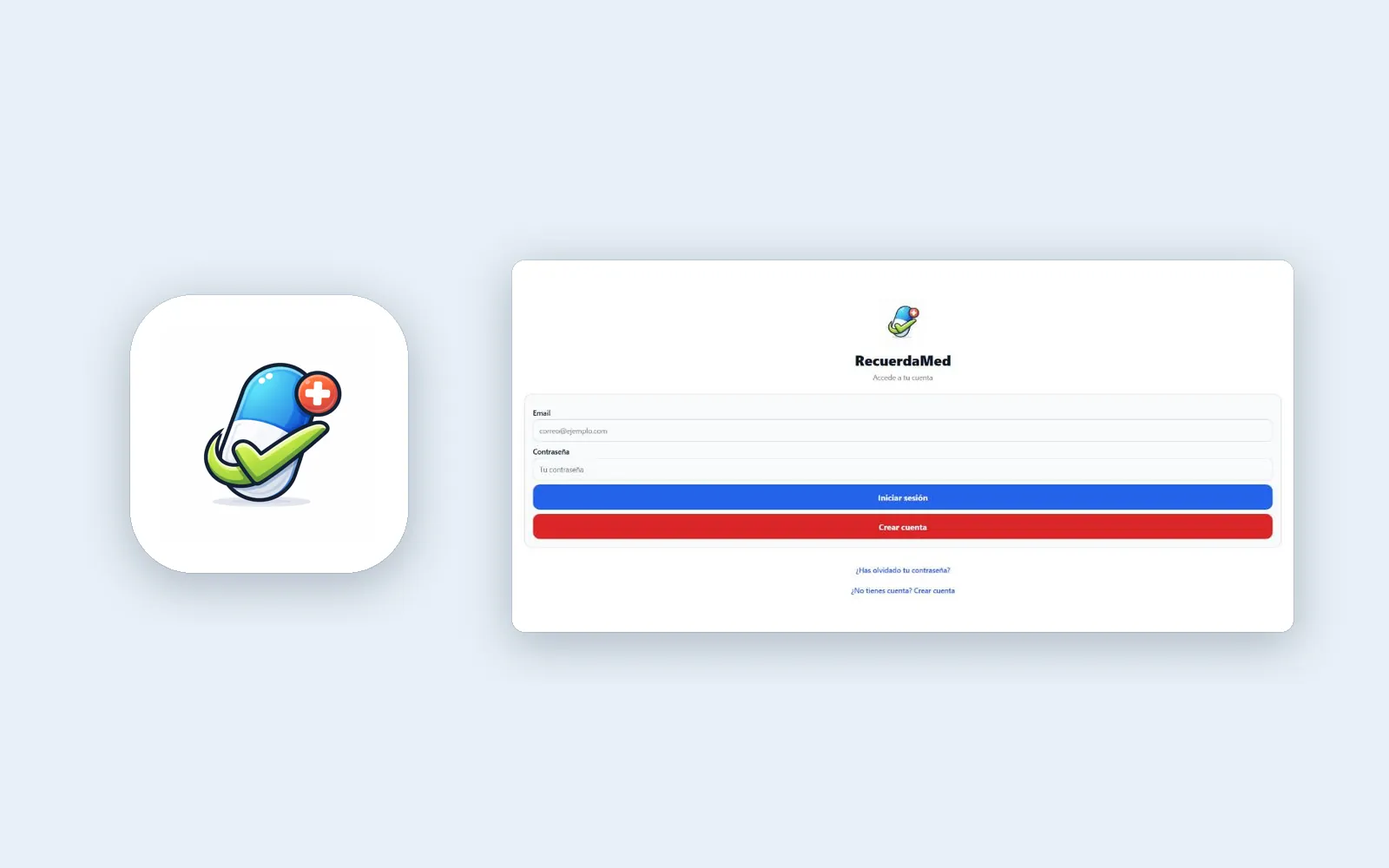
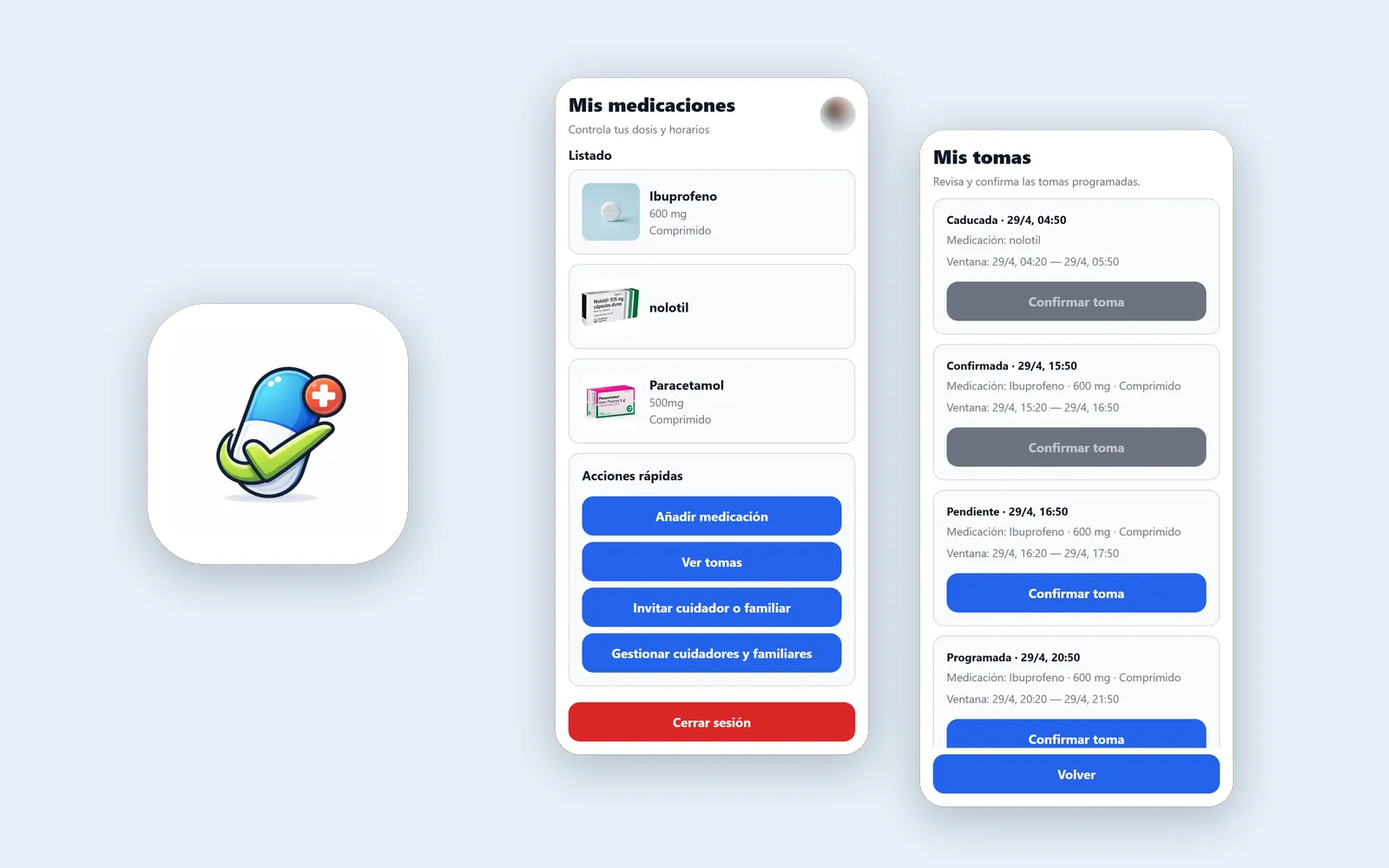
RecuerdaMed con capturas reales y tecnologías en la cabecera
- RecuerdaMed: pantallas reales de la app (medicaciones, tomas, nueva
  medicación, accesos, paneles de cuidador y familiar, acceso) y portada
  nueva. Correos de prueba y foto de perfil difuminados.
- Las tecnologías pasan a la ficha de cada proyecto, arriba, en lugar de
  una sección suelta al final.
- DocuChat: se quita la cita suelta y los resultados explican la
  corrección de la evaluación (93 % inflado frente a 60 % real).

Claude-Session: https://claude.ai/code/session_01PYV6iKrbiz8JJx8i2wWxxc

Changed region(s): [[0.3438, 0.093, 0.9375, 0.961], [0.0938, 0.341, 0.2812, 0.682], [0.5938, 0.093, 0.625, 0.155]]

diff --git a/proyectos/recuerdamed/index.html b/proyectos/recuerdamed/index.html
@@ -41,17 +41,17 @@
       <p class="p-lead"><span lang="es">Una app multiplataforma que ayuda a personas mayores y polimedicadas a no saltarse ninguna toma, y que avisa a cuidadores y familiares cuando una se pasa.</span><span lang="en">A cross-platform app that helps older people on several medications not to miss a dose, and alerts caregivers and family when one is missed.</span></p>
       <p class="p-meta"><span class="i"><span lang="es">Trabajo de fin de grado</span><span lang="en">Bachelor’s thesis</span></span><span class="i">2026</span></p>
       <div class="p-links"><a class="btn primary" href="https://recuerda-med.vercel.app" target="_blank" rel="noopener"><span lang="es">Probar la demo</span><span lang="en">Try the demo</span> <span class="arr" aria-hidden="true">↗</span></a><a class="btn" href="https://github.com/JoaquinBorjaLeon/RecuerdaMed" target="_blank" rel="noopener"><span lang="es">Código en GitHub</span><span lang="en">Code on GitHub</span> <span class="arr" aria-hidden="true">↗</span></a></div>
-      <dl class="p-facts"><div><dt><span lang="es">Periodo</span><span lang="en">Period</span></dt><dd><span lang="es">Sept. 2025 a may. 2026</span><span lang="en">Sep 2025 to May 2026</span></dd></div><div><dt><span lang="es">Equipo</span><span lang="en">Team</span></dt><dd><span lang="es">Proyecto individual</span><span lang="en">Individual project</span></dd></div><div><dt><span lang="es">Contexto</span><span lang="en">Context</span></dt><dd><span lang="es">Trabajo de fin de grado, Universidad de Sevilla</span><span lang="en">Bachelor’s thesis, University of Seville</span></dd></div><div><dt><span lang="es">Mi papel</span><span lang="en">My role</span></dt><dd><span lang="es">Todo, de las entrevistas con usuarios al despliegue</span><span lang="en">Everything, from user interviews to deployment</span></dd></div></dl>
+      <dl class="p-facts"><div><dt><span lang="es">Periodo</span><span lang="en">Period</span></dt><dd><span lang="es">Sept. 2025 a may. 2026</span><span lang="en">Sep 2025 to May 2026</span></dd></div><div><dt><span lang="es">Equipo</span><span lang="en">Team</span></dt><dd><span lang="es">Proyecto individual</span><span lang="en">Individual project</span></dd></div><div><dt><span lang="es">Contexto</span><span lang="en">Context</span></dt><dd><span lang="es">Trabajo de fin de grado, Universidad de Sevilla</span><span lang="en">Bachelor’s thesis, University of Seville</span></dd></div><div><dt><span lang="es">Mi papel</span><span lang="en">My role</span></dt><dd><span lang="es">Todo, de las entrevistas con usuarios al despliegue</span><span lang="en">Everything, from user interviews to deployment</span></dd></div><div class="p-tech"><dt><span lang="es">Tecnologías</span><span lang="en">Tech stack</span></dt><dd><ul class="stack" aria-label="Stack"><li>React Native</li><li>Expo</li><li>TypeScript</li><li>Firebase</li><li>Jest</li><li>GitHub Actions</li><li>Vercel</li></ul></dd></div></dl>
     </div>
   </section>
   <div class="wrap">
       <figure class="stage reveal">
-        <div data-ui class="shot solo"><img src="/img/covers/recuerdamed.webp" width="1600" height="1000" fetchpriority="high" decoding="async" alt="Icono de RecuerdaMed junto a la pantalla de acceso de la demo" data-en="RecuerdaMed icon next to the demo sign-in screen"></div>
-        <figcaption><span lang="es">Pantalla de acceso de la demo pública, desplegada en Vercel.</span><span lang="en">Sign-in screen of the public demo, deployed on Vercel.</span></figcaption>
+        <div class="phones n3"><div data-ui class="phone"><img src="/img/recuerdamed/medicaciones.webp" width="780" height="1688" fetchpriority="high" decoding="async" alt="Pantalla Mis medicaciones con tres medicamentos, sus fotos y las acciones rápidas" data-en="My medications screen with three medicines, their photos and quick actions"></div><div data-ui class="phone"><img src="/img/recuerdamed/tomas.webp" width="780" height="1688" fetchpriority="high" decoding="async" alt="Pantalla Mis tomas con tomas caducadas, confirmadas, pendientes y programadas" data-en="My doses screen with expired, confirmed, pending and scheduled doses"></div><div data-ui class="phone"><img src="/img/recuerdamed/nueva-medicacion.webp" width="780" height="1688" fetchpriority="high" decoding="async" alt="Formulario de nueva medicación con foto de referencia" data-en="New medication form with a reference photo"></div></div>
+        <figcaption><span lang="es">La app del paciente: medicaciones, tomas del día y alta de una medicación con foto. Datos de prueba.</span><span lang="en">The patient app: medications, today’s doses and adding a medication with a photo. Test data.</span></figcaption>
       </figure>
       <section class="p-sec reveal">
         <h2><span lang="es">Qué hace</span><span lang="en">What it does</span></h2>
-        <div><ul class="points single"><li><span lang="es">Tres roles con permisos distintos: paciente, cuidador y familiar.</span><span lang="en">Three roles with different permissions: patient, caregiver and family.</span></li><li><span lang="es">Pautas diarias, por días de la semana o cada X horas, con un margen para confirmar cada toma.</span><span lang="en">Daily, weekday or every-X-hours schedules, with a time window to confirm each dose.</span></li><li><span lang="es">Notificaciones locales de recordatorio, aviso y caducidad, y push a los vinculados.</span><span lang="en">Local reminder, warning and expiry notifications, plus push alerts to linked users.</span></li><li><span lang="es">Vinculación con consentimiento mediante invitaciones revocables.</span><span lang="en">Consent-based linking through revocable invitations.</span></li><li><span lang="es">Historial de adherencia con tomas confirmadas y caducadas.</span><span lang="en">An adherence history of confirmed and expired doses.</span></li></ul></div>
+        <div><ul class="points single"><li><span lang="es">Cada medicación guarda dosis, forma, notas y una foto de referencia opcional, tomada con la cámara o desde la galería.</span><span lang="en">Each medication stores dose, form, notes and an optional reference photo, taken with the camera or from the gallery.</span></li><li><span lang="es">Pautas diarias, por días de la semana o cada X horas. Cada toma pasa por programada, pendiente, confirmada o caducada según su ventana de tiempo.</span><span lang="en">Daily, weekday or every-X-hours schedules. Each dose moves through scheduled, pending, confirmed or expired according to its time window.</span></li><li><span lang="es">Notificaciones locales de recordatorio, aviso y caducidad, y avisos push a los vinculados.</span><span lang="en">Local reminder, warning and expiry notifications, plus push alerts to linked users.</span></li><li><span lang="es">Tres roles: el paciente invita a cuidadores y familiares, decide quién ve sus tomas y puede retirar el acceso cuando quiera.</span><span lang="en">Three roles: patients invite caregivers and family, decide who sees their doses and can revoke access at any time.</span></li><li><span lang="es">Historial de adherencia con las tomas confirmadas y caducadas.</span><span lang="en">An adherence history of confirmed and expired doses.</span></li></ul></div>
       </section>
       <section class="p-sec reveal">
         <h2><span lang="es">Cómo está hecho</span><span lang="en">How it is built</span></h2>
@@ -61,9 +61,21 @@
         <h2><span lang="es">En cifras</span><span lang="en">In numbers</span></h2>
         <div><dl class="stats"><div><dt><span lang="es">roles con permisos propios</span><span lang="en">roles with their own permissions</span></dt><dd>3</dd></div><div><dt><span lang="es">tests unitarios</span><span lang="en">unit tests</span></dt><dd>18</dd></div><div><dt><span lang="es">base de código para móvil y web</span><span lang="en">codebase for mobile and web</span></dt><dd>1</dd></div></dl></div>
       </section>
-      <section class="p-sec reveal">
-        <h2>Stack</h2>
-        <div><ul class="stack" aria-label="Stack"><li>React Native</li><li>Expo</li><li>TypeScript</li><li>Firebase</li><li>Jest</li><li>GitHub Actions</li><li>Vercel</li></ul></div>
+      <section class="p-gallery" aria-label="Galería">
+        <h2><span lang="es">Galería</span><span lang="en">Gallery</span></h2>
+        <div class="phone-gallery"><figure class="reveal">
+            <div data-ui class="phone"><img src="/img/recuerdamed/accesos.webp" width="780" height="1688" decoding="async" alt="Pantalla para gestionar los accesos de cuidadores y familiares" data-en="Screen to manage caregiver and family access"></div>
+            <figcaption><span lang="es">El paciente controla quién ve sus tomas.</span><span lang="en">Patients control who sees their doses.</span></figcaption>
+          </figure><figure class="reveal">
+            <div data-ui class="phone"><img src="/img/recuerdamed/cuidador.webp" width="780" height="1688" decoding="async" alt="Panel del cuidador con sus pacientes e invitaciones" data-en="Caregiver panel with patients and invitations"></div>
+            <figcaption><span lang="es">Panel del cuidador.</span><span lang="en">Caregiver panel.</span></figcaption>
+          </figure><figure class="reveal">
+            <div data-ui class="phone"><img src="/img/recuerdamed/familiar.webp" width="780" height="1688" decoding="async" alt="Panel familiar de consulta y seguimiento" data-en="Family panel for follow-up"></div>
+            <figcaption><span lang="es">Panel familiar.</span><span lang="en">Family panel.</span></figcaption>
+          </figure><figure class="reveal">
+            <div data-ui class="phone"><img src="/img/recuerdamed/login.webp" width="780" height="1688" decoding="async" alt="Pantalla de acceso de RecuerdaMed" data-en="RecuerdaMed sign-in screen"></div>
+            <figcaption><span lang="es">Acceso a la app.</span><span lang="en">Signing in.</span></figcaption>
+          </figure></div>
       </section>
       <nav class="pager reveal" aria-label="Más proyectos">
         <a class="prev" href="/proyectos/sports-value-detector/"><small><span lang="es">Anterior</span><span lang="en">Previous</span></small><strong>Sports Value Detector</strong></a>

diff --git a/proyectos/docuchat/index.html b/proyectos/docuchat/index.html
@@ -41,7 +41,7 @@
       <p class="p-lead"><span lang="es">Un asistente que responde preguntas sobre tus PDF con generación aumentada por recuperación (RAG) y te enseña de qué documento sale cada respuesta. Si algo no está en tus documentos, lo dice.</span><span lang="en">An assistant that answers questions about your PDFs with retrieval-augmented generation (RAG) and shows which document each answer comes from. If something is not in your documents, it says so.</span></p>
       <p class="p-meta"><span class="i"><span lang="es">Proyecto personal</span><span lang="en">Personal project</span></span><span class="i">2026</span></p>
       <div class="p-links"><a class="btn primary" href="https://github.com/JoaquinBorjaLeon/docuchat" target="_blank" rel="noopener"><span lang="es">Código en GitHub</span><span lang="en">Code on GitHub</span> <span class="arr" aria-hidden="true">↗</span></a></div>
-      <dl class="p-facts"><div><dt><span lang="es">Periodo</span><span lang="en">Period</span></dt><dd>2026</dd></div><div><dt><span lang="es">Equipo</span><span lang="en">Team</span></dt><dd><span lang="es">Proyecto personal</span><span lang="en">Personal project</span></dd></div><div><dt><span lang="es">Contexto</span><span lang="en">Context</span></dt><dd><span lang="es">Proyecto propio, desplegado con Docker Compose</span><span lang="en">Own project, deployed with Docker Compose</span></dd></div><div><dt><span lang="es">Mi papel</span><span lang="en">My role</span></dt><dd><span lang="es">Todo: backend, búsqueda, agente, evaluación e interfaz</span><span lang="en">Everything: backend, search, agent, evaluation and interface</span></dd></div></dl>
+      <dl class="p-facts"><div><dt><span lang="es">Periodo</span><span lang="en">Period</span></dt><dd>2026</dd></div><div><dt><span lang="es">Equipo</span><span lang="en">Team</span></dt><dd><span lang="es">Proyecto personal</span><span lang="en">Personal project</span></dd></div><div><dt><span lang="es">Contexto</span><span lang="en">Context</span></dt><dd><span lang="es">Proyecto propio, desplegado con Docker Compose</span><span lang="en">Own project, deployed with Docker Compose</span></dd></div><div><dt><span lang="es">Mi papel</span><span lang="en">My role</span></dt><dd><span lang="es">Todo: backend, búsqueda, agente, evaluación e interfaz</span><span lang="en">Everything: backend, search, agent, evaluation and interface</span></dd></div><div class="p-tech"><dt><span lang="es">Tecnologías</span><span lang="en">Tech stack</span></dt><dd><ul class="stack" aria-label="Stack"><li>Python</li><li>FastAPI</li><li>PostgreSQL</li><li>pgvector</li><li>Ollama</li><li>Gemini</li><li>React</li><li>Docker Compose</li></ul></dd></div></dl>
     </div>
   </section>
   <div class="wrap">
@@ -59,13 +59,8 @@
       </section>
       <section class="p-sec reveal">
         <h2><span lang="es">Resultados</span><span lang="en">Results</span></h2>
-        <div><dl class="stats"><div><dt><span lang="es">recall@8 honesto</span><span lang="en">honest recall@8</span></dt><dd>60 %</dd></div><div><dt><span lang="es">preguntas de evaluación</span><span lang="en">evaluation questions</span></dt><dd>15</dd></div><div><dt><span lang="es">la cifra inflada que corregí</span><span lang="en">the inflated figure I corrected</span></dt><dd>93 %</dd></div></dl></div>
+        <div><dl class="stats"><div><dt><span lang="es">de recall@8: la fuente correcta aparece entre los 8 primeros fragmentos</span><span lang="en">recall@8: the right source shows up in the top 8 passages</span></dt><dd>60 %</dd></div><div><dt><span lang="es">preguntas en el conjunto de evaluación</span><span lang="en">questions in the evaluation set</span></dt><dd>15</dd></div><div><dt><span lang="es">proveedores de modelos: Ollama en local y Gemini</span><span lang="en">model providers: local Ollama and Gemini</span></dt><dd>2</dd></div></dl><p class="stats-note"><span lang="es">Una primera versión de la evaluación daba un 93 %, pero contaba como acierto fragmentos genéricos que no respondían a la pregunta. Al corregirla, la cifra real es un 60 %, y los fallos se concentran en preguntas conceptuales amplias.</span><span lang="en">A first version of the evaluation gave 93%, but it counted generic passages that did not answer the question as hits. Once corrected, the real figure is 60%, with failures concentrated in broad conceptual questions.</span></p></div>
       </section>
-      <section class="p-sec reveal">
-        <h2>Stack</h2>
-        <div><ul class="stack" aria-label="Stack"><li>Python</li><li>FastAPI</li><li>PostgreSQL</li><li>pgvector</li><li>Ollama</li><li>Gemini</li><li>React</li><li>Docker Compose</li></ul></div>
-      </section>
-      <blockquote class="pull reveal"><p><span lang="es">Una métrica mal diseñada es peor que no tener ninguna: da una confianza falsa.</span><span lang="en">A badly designed metric is worse than none: it gives false confidence.</span></p></blockquote>
       <section class="p-gallery" aria-label="Galería">
         <h2><span lang="es">Galería</span><span lang="en">Gallery</span></h2>
         <div class="gallery"><figure class="reveal wide">

diff --git a/proyectos/analista-incansable/index.html b/proyectos/analista-incansable/index.html
@@ -41,12 +41,12 @@
       <p class="p-lead"><span lang="es">Vigila cada día una lista de acciones, puntúa cada empresa por sus fundamentales y avisa cuando algo merece una segunda mirada. Analiza y vigila; nunca predice ni opera.</span><span lang="en">Every day it watches a list of stocks, scores each company on its fundamentals and flags anything worth a second look. It analyses and watches; it never predicts or trades.</span></p>
       <p class="p-meta"><span class="i"><span lang="es">Proyecto personal</span><span lang="en">Personal project</span></span><span class="i">2026</span></p>
       <div class="p-links"><a class="btn primary" href="https://github.com/JoaquinBorjaLeon/analista-incansable" target="_blank" rel="noopener"><span lang="es">Código en GitHub</span><span lang="en">Code on GitHub</span> <span class="arr" aria-hidden="true">↗</span></a></div>
-      <dl class="p-facts"><div><dt><span lang="es">Periodo</span><span lang="en">Period</span></dt><dd>2026</dd></div><div><dt><span lang="es">Equipo</span><span lang="en">Team</span></dt><dd><span lang="es">Proyecto personal</span><span lang="en">Personal project</span></dd></div><div><dt><span lang="es">Contexto</span><span lang="en">Context</span></dt><dd><span lang="es">Corre en mi servidor Ubuntu, en una red privada</span><span lang="en">Runs on my Ubuntu server, inside a private network</span></dd></div><div><dt><span lang="es">Mi papel</span><span lang="en">My role</span></dt><dd><span lang="es">Todo el proyecto</span><span lang="en">The whole project</span></dd></div></dl>
+      <dl class="p-facts"><div><dt><span lang="es">Periodo</span><span lang="en">Period</span></dt><dd>2026</dd></div><div><dt><span lang="es">Equipo</span><span lang="en">Team</span></dt><dd><span lang="es">Proyecto personal</span><span lang="en">Personal project</span></dd></div><div><dt><span lang="es">Contexto</span><span lang="en">Context</span></dt><dd><span lang="es">Corre en mi servidor Ubuntu, en una red privada</span><span lang="en">Runs on my Ubuntu server, inside a private network</span></dd></div><div><dt><span lang="es">Mi papel</span><span lang="en">My role</span></dt><dd><span lang="es">Todo el proyecto</span><span lang="en">The whole project</span></dd></div><div class="p-tech"><dt><span lang="es">Tecnologías</span><span lang="en">Tech stack</span></dt><dd><ul class="stack" aria-label="Stack"><li>Python</li><li>pandas</li><li>yfinance</li><li>SQLite</li><li>FastAPI</li><li>Jinja2</li><li>n8n</li><li>Telegram</li></ul></dd></div></dl>
     </div>
   </section>
   <div class="wrap">
       <figure class="stage reveal">
-        <div class="phones"><div data-ui class="phone"><img src="/img/analista-incansable/watchlist.webp" width="780" height="1688" fetchpriority="high" decoding="async" alt="Lista de seguimiento ordenada por distancia a la zona de entrada, con la puntuación de cada empresa" data-en="Watchlist sorted by distance to the entry zone, with each company’s score"></div><div data-ui class="phone"><img src="/img/analista-incansable/detalle.webp" width="780" height="1688" fetchpriority="high" decoding="async" alt="Detalle de una empresa con precio, zona, RSI, medias y desglose de la puntuación" data-en="Company detail with price, zone, RSI, moving averages and score breakdown"></div></div>
+        <div class="phones n2"><div data-ui class="phone"><img src="/img/analista-incansable/watchlist.webp" width="780" height="1688" fetchpriority="high" decoding="async" alt="Lista de seguimiento ordenada por distancia a la zona de entrada, con la puntuación de cada empresa" data-en="Watchlist sorted by distance to the entry zone, with each company’s score"></div><div data-ui class="phone"><img src="/img/analista-incansable/detalle.webp" width="780" height="1688" fetchpriority="high" decoding="async" alt="Detalle de una empresa con precio, zona, RSI, medias y desglose de la puntuación" data-en="Company detail with price, zone, RSI, moving averages and score breakdown"></div></div>
         <figcaption><span lang="es">Panel web de solo lectura pensado para el móvil, con datos sintéticos de demostración.</span><span lang="en">Read-only web panel designed for the phone, with synthetic demo data.</span></figcaption>
       </figure>
       <section class="p-sec reveal">
@@ -75,10 +75,6 @@
           </table>
           <p class="note"><span lang="es">Verde suma el peso completo, ámbar la mitad, y rojo o dato ausente, cero. Las banderas rojas se listan aparte y no se promedian.</span><span lang="en">Green earns the full weight, amber half, and red or missing data zero. Red flags are listed separately and never averaged away.</span></p>
         </div></div>
-      </section>
-      <section class="p-sec reveal">
-        <h2>Stack</h2>
-        <div><ul class="stack" aria-label="Stack"><li>Python</li><li>pandas</li><li>yfinance</li><li>SQLite</li><li>FastAPI</li><li>Jinja2</li><li>n8n</li><li>Telegram</li></ul></div>
       </section>
       <section class="p-gallery" aria-label="Galería">
         <h2><span lang="es">Galería</span><span lang="en">Gallery</span></h2>

diff --git a/proyectos/vecinus/index.html b/proyectos/vecinus/index.html
@@ -41,7 +41,7 @@
       <p class="p-lead"><span lang="es">Una app para gestionar el día a día de una comunidad de vecinos: incidencias, reservas, votaciones, chat, un asistente con las normas de la comunidad y actas generadas desde la grabación de la reunión.</span><span lang="en">An app to run the day-to-day of a residents’ community: incidents, bookings, votes, chat, an assistant that knows the community rules and minutes generated from the meeting recording.</span></p>
       <p class="p-meta"><span class="i"><span lang="es">Proyecto de equipo</span><span lang="en">Team project</span></span><span class="i"><span lang="es">15 personas</span><span lang="en">15 people</span></span><span class="i">2026</span></p>
       <div class="p-links"><a class="btn primary" href="https://www.youtube.com/watch?v=asrHzVENuS0" target="_blank" rel="noopener"><span lang="es">Ver la demo en vídeo</span><span lang="en">Watch the demo video</span> <span class="arr" aria-hidden="true">↗</span></a><a class="btn" href="https://github.com/Vecinus/vecinus" target="_blank" rel="noopener"><span lang="es">Código en GitHub</span><span lang="en">Code on GitHub</span> <span class="arr" aria-hidden="true">↗</span></a><a class="btn" href="https://landing-vecinus.onrender.com/" target="_blank" rel="noopener"><span lang="es">Web del proyecto</span><span lang="en">Project website</span> <span class="arr" aria-hidden="true">↗</span></a></div>
-      <dl class="p-facts"><div><dt><span lang="es">Periodo</span><span lang="en">Period</span></dt><dd><span lang="es">Feb. a may. 2026</span><span lang="en">Feb to May 2026</span></dd></div><div><dt><span lang="es">Equipo</span><span lang="en">Team</span></dt><dd><span lang="es">15 personas</span><span lang="en">15 people</span></dd></div><div><dt><span lang="es">Contexto</span><span lang="en">Context</span></dt><dd><span lang="es">Asignatura que simula crear y lanzar una startup</span><span lang="en">Course that simulates building and launching a startup</span></dd></div><div><dt><span lang="es">Mi papel</span><span lang="en">My role</span></dt><dd><span lang="es">Jefe de proyecto, integración continua y seguridad</span><span lang="en">Project manager, continuous integration and security</span></dd></div></dl>
+      <dl class="p-facts"><div><dt><span lang="es">Periodo</span><span lang="en">Period</span></dt><dd><span lang="es">Feb. a may. 2026</span><span lang="en">Feb to May 2026</span></dd></div><div><dt><span lang="es">Equipo</span><span lang="en">Team</span></dt><dd><span lang="es">15 personas</span><span lang="en">15 people</span></dd></div><div><dt><span lang="es">Contexto</span><span lang="en">Context</span></dt><dd><span lang="es">Asignatura que simula crear y lanzar una startup</span><span lang="en">Course that simulates building and launching a startup</span></dd></div><div><dt><span lang="es">Mi papel</span><span lang="en">My role</span></dt><dd><span lang="es">Jefe de proyecto, integración continua y seguridad</span><span lang="en">Project manager, continuous integration and security</span></dd></div><div class="p-tech"><dt><span lang="es">Tecnologías</span><span lang="en">Tech stack</span></dt><dd><ul class="stack" aria-label="Stack"><li>FastAPI</li><li>Supabase</li><li>PostgreSQL</li><li>React Native</li><li>Expo</li><li>Gemini</li><li>Pinecone</li><li>GitHub Actions</li><li>Render</li></ul></dd></div></dl>
     </div>
   </section>
   <div class="wrap">
@@ -60,10 +60,6 @@
       <section class="p-sec reveal">
         <h2><span lang="es">En cifras</span><span lang="en">In numbers</span></h2>
         <div><dl class="stats"><div><dt><span lang="es">personas en el equipo</span><span lang="en">people on the team</span></dt><dd>15</dd></div><div><dt><span lang="es">pull requests integradas</span><span lang="en">pull requests merged</span></dt><dd>+80</dd></div><div><dt><span lang="es">workflows de CI y seguridad</span><span lang="en">CI and security workflows</span></dt><dd>5</dd></div></dl></div>
-      </section>
-      <section class="p-sec reveal">
-        <h2>Stack</h2>
-        <div><ul class="stack" aria-label="Stack"><li>FastAPI</li><li>Supabase</li><li>PostgreSQL</li><li>React Native</li><li>Expo</li><li>Gemini</li><li>Pinecone</li><li>GitHub Actions</li><li>Render</li></ul></div>
       </section>
       <section class="p-gallery" aria-label="Galería">
         <h2><span lang="es">Galería</span><span lang="en">Gallery</span></h2>

diff --git a/proyectos/the-precision/index.html b/proyectos/the-precision/index.html
@@ -41,7 +41,7 @@
       <p class="p-lead"><span lang="es">Una aplicación web para una peluquería: el cliente reserva servicio, profesional y hora en tres pasos, y el negocio gestiona su agenda desde un panel de administración.</span><span lang="en">A web app for a hair salon: clients book a service, a stylist and a time in three steps, and the business runs its calendar from an admin panel.</span></p>
       <p class="p-meta"><span class="i"><span lang="es">Proyecto en pareja</span><span lang="en">Two-person project</span></span><span class="i">2026</span></p>
       <div class="p-links"><a class="btn primary" href="https://github.com/ArielEC/mern-peluqueria" target="_blank" rel="noopener"><span lang="es">Código en GitHub</span><span lang="en">Code on GitHub</span> <span class="arr" aria-hidden="true">↗</span></a><a class="btn" href="https://arielec-dev.vercel.app/work/salon-booking-system/#demo" target="_blank" rel="noopener"><span lang="es">Vídeo de la demo</span><span lang="en">Demo video</span> <span class="arr" aria-hidden="true">↗</span></a></div>
-      <dl class="p-facts"><div><dt><span lang="es">Periodo</span><span lang="en">Period</span></dt><dd><span lang="es">Abr. 2026</span><span lang="en">Apr 2026</span></dd></div><div><dt><span lang="es">Equipo</span><span lang="en">Team</span></dt><dd><span lang="es">Dos personas, con Ariel Escobar</span><span lang="en">Two people, with Ariel Escobar</span></dd></div><div><dt><span lang="es">Contexto</span><span lang="en">Context</span></dt><dd><span lang="es">Académico, inspirado en un salón familiar</span><span lang="en">Academic, inspired by a family-run salon</span></dd></div><div><dt><span lang="es">Mi papel</span><span lang="en">My role</span></dt><dd><span lang="es">Frontend completo, API de gestión y despliegue</span><span lang="en">Whole frontend, management API and deployment</span></dd></div></dl>
+      <dl class="p-facts"><div><dt><span lang="es">Periodo</span><span lang="en">Period</span></dt><dd><span lang="es">Abr. 2026</span><span lang="en">Apr 2026</span></dd></div><div><dt><span lang="es">Equipo</span><span lang="en">Team</span></dt><dd><span lang="es">Dos personas, con Ariel Escobar</span><span lang="en">Two people, with Ariel Escobar</span></dd></div><div><dt><span lang="es">Contexto</span><span lang="en">Context</span></dt><dd><span lang="es">Académico, inspirado en un salón familiar</span><span lang="en">Academic, inspired by a family-run salon</span></dd></div><div><dt><span lang="es">Mi papel</span><span lang="en">My role</span></dt><dd><span lang="es">Frontend completo, API de gestión y despliegue</span><span lang="en">Whole frontend, management API and deployment</span></dd></div><div class="p-tech"><dt><span lang="es">Tecnologías</span><span lang="en">Tech stack</span></dt><dd><ul class="stack" aria-label="Stack"><li>React</li><li>Vite</li><li>Tailwind CSS</li><li>Zustand</li><li>TanStack Query</li><li>FullCalendar</li><li>Node.js</li><li>Express</li><li>MongoDB</li><li>JWT</li></ul></dd></div></dl>
     </div>
   </section>
   <div class="wrap">
@@ -56,10 +56,6 @@
       <section class="p-sec reveal">
         <h2><span lang="es">Qué hace la app</span><span lang="en">What the app does</span></h2>
         <div><ul class="points single"><li><span lang="es">Reserva guiada en tres pasos: servicio, hora con los huecos libres reales y confirmación.</span><span lang="en">A guided three-step booking: service, a time from the real free slots, and confirmation.</span></li><li><span lang="es">Área de cliente con próximas citas, historial y cancelación.</span><span lang="en">A client area with upcoming appointments, history and cancellation.</span></li><li><span lang="es">Panel del negocio con resumen del día, calendario, servicios, profesionales, bloqueos y ajustes.</span><span lang="en">A business panel with the day’s summary, calendar, services, staff, time blocks and settings.</span></li></ul></div>
-      </section>
-      <section class="p-sec reveal">
-        <h2>Stack</h2>
-        <div><ul class="stack" aria-label="Stack"><li>React</li><li>Vite</li><li>Tailwind CSS</li><li>Zustand</li><li>TanStack Query</li><li>FullCalendar</li><li>Node.js</li><li>Express</li><li>MongoDB</li><li>JWT</li></ul></div>
       </section>
       <section class="p-gallery" aria-label="Galería">
         <h2><span lang="es">Galería</span><span lang="en">Gallery</span></h2>

diff --git a/proyectos/poke-hub/index.html b/proyectos/poke-hub/index.html
@@ -41,7 +41,7 @@
       <p class="p-lead"><span lang="es">Una plataforma para publicar y descargar conjuntos de modelos, construida sobre uvlhub, en la que lo importante era el proceso: ramas, revisión de código, integración y despliegue continuos.</span><span lang="en">A platform to publish and download model datasets, built on uvlhub, where the process mattered most: branching, code review, continuous integration and deployment.</span></p>
       <p class="p-meta"><span class="i"><span lang="es">Proyecto de equipo</span><span lang="en">Team project</span></span><span class="i"><span lang="es">12 personas</span><span lang="en">12 people</span></span><span class="i">2025</span></p>
       <div class="p-links"><a class="btn primary" href="https://github.com/poke-hub/poke-hub" target="_blank" rel="noopener"><span lang="es">Código en GitHub</span><span lang="en">Code on GitHub</span> <span class="arr" aria-hidden="true">↗</span></a></div>
-      <dl class="p-facts"><div><dt><span lang="es">Periodo</span><span lang="en">Period</span></dt><dd>2025</dd></div><div><dt><span lang="es">Equipo</span><span lang="en">Team</span></dt><dd><span lang="es">12 personas, dos equipos de 6</span><span lang="en">12 people, two teams of 6</span></dd></div><div><dt><span lang="es">Contexto</span><span lang="en">Context</span></dt><dd><span lang="es">Asignatura Evolución y Gestión de la Configuración</span><span lang="en">Configuration Evolution and Management course</span></dd></div><div><dt><span lang="es">Mi papel</span><span lang="en">My role</span></dt><dd><span lang="es">Perfil de usuario, tests y guía de despliegue</span><span lang="en">User profile, tests and deployment guide</span></dd></div></dl>
+      <dl class="p-facts"><div><dt><span lang="es">Periodo</span><span lang="en">Period</span></dt><dd>2025</dd></div><div><dt><span lang="es">Equipo</span><span lang="en">Team</span></dt><dd><span lang="es">12 personas, dos equipos de 6</span><span lang="en">12 people, two teams of 6</span></dd></div><div><dt><span lang="es">Contexto</span><span lang="en">Context</span></dt><dd><span lang="es">Asignatura Evolución y Gestión de la Configuración</span><span lang="en">Configuration Evolution and Management course</span></dd></div><div><dt><span lang="es">Mi papel</span><span lang="en">My role</span></dt><dd><span lang="es">Perfil de usuario, tests y guía de despliegue</span><span lang="en">User profile, tests and deployment guide</span></dd></div><div class="p-tech"><dt><span lang="es">Tecnologías</span><span lang="en">Tech stack</span></dt><dd><ul class="stack" aria-label="Stack"><li>Python</li><li>Flask</li><li>SQLAlchemy</li><li>Docker</li><li>Vagrant</li><li>GitHub Actions</li><li>Render</li></ul></dd></div></dl>
     </div>
   </section>
   <div class="wrap">
@@ -60,10 +60,6 @@
       <section class="p-sec reveal">
         <h2><span lang="es">Cómo trabajamos</span><span lang="en">How we worked</span></h2>
         <div><ul class="points single"><li><span lang="es">Tareas en GitHub Projects con responsable y estado.</span><span lang="en">Tasks in GitHub Projects with an owner and a status.</span></li><li><span lang="es">Un flujo de ramas propio con revisión de código por pares.</span><span lang="en">Our own branching flow with peer code review.</span></li><li><span lang="es">GitHub Actions para lint, tests y despliegue en Render.</span><span lang="en">GitHub Actions for lint, tests and deployment on Render.</span></li></ul></div>
-      </section>
-      <section class="p-sec reveal">
-        <h2>Stack</h2>
-        <div><ul class="stack" aria-label="Stack"><li>Python</li><li>Flask</li><li>SQLAlchemy</li><li>Docker</li><li>Vagrant</li><li>GitHub Actions</li><li>Render</li></ul></div>
       </section>
       <section class="p-gallery" aria-label="Galería">
         <h2><span lang="es">Galería</span><span lang="en">Gallery</span></h2>

diff --git a/proyectos/sports-value-detector/index.html b/proyectos/sports-value-detector/index.html
@@ -41,7 +41,7 @@
       <p class="p-lead"><span lang="es">Calcula sus propias probabilidades para mercados de fútbol y tenis y las compara con la cuota de cierre de casas de referencia, el listón más exigente. Ningún modelo la bate de forma consistente, y el proyecto lo cuenta tal cual.</span><span lang="en">It prices football and tennis markets with its own models and compares them with the closing odds of sharp bookmakers, the toughest bar there is. No model beats it consistently, and the project says so plainly.</span></p>
       <p class="p-meta"><span class="i"><span lang="es">Proyecto personal</span><span lang="en">Personal project</span></span><span class="i">2026</span></p>
       <div class="p-links"><a class="btn primary" href="https://github.com/JoaquinBorjaLeon/sports-analyzer" target="_blank" rel="noopener"><span lang="es">Código en GitHub</span><span lang="en">Code on GitHub</span> <span class="arr" aria-hidden="true">↗</span></a></div>
-      <dl class="p-facts"><div><dt><span lang="es">Periodo</span><span lang="en">Period</span></dt><dd>2026</dd></div><div><dt><span lang="es">Equipo</span><span lang="en">Team</span></dt><dd><span lang="es">Proyecto personal</span><span lang="en">Personal project</span></dd></div><div><dt><span lang="es">Contexto</span><span lang="en">Context</span></dt><dd><span lang="es">Datos gratuitos, validación temporal y backtests</span><span lang="en">Free data, temporal validation and backtests</span></dd></div><div><dt><span lang="es">Mi papel</span><span lang="en">My role</span></dt><dd><span lang="es">Todo: datos, modelos, backtests y panel</span><span lang="en">Everything: data, models, backtests and dashboard</span></dd></div></dl>
+      <dl class="p-facts"><div><dt><span lang="es">Periodo</span><span lang="en">Period</span></dt><dd>2026</dd></div><div><dt><span lang="es">Equipo</span><span lang="en">Team</span></dt><dd><span lang="es">Proyecto personal</span><span lang="en">Personal project</span></dd></div><div><dt><span lang="es">Contexto</span><span lang="en">Context</span></dt><dd><span lang="es">Datos gratuitos, validación temporal y backtests</span><span lang="en">Free data, temporal validation and backtests</span></dd></div><div><dt><span lang="es">Mi papel</span><span lang="en">My role</span></dt><dd><span lang="es">Todo: datos, modelos, backtests y panel</span><span lang="en">Everything: data, models, backtests and dashboard</span></dd></div><div class="p-tech"><dt><span lang="es">Tecnologías</span><span lang="en">Tech stack</span></dt><dd><ul class="stack" aria-label="Stack"><li>Python</li><li>pandas</li><li>NumPy</li><li>scikit-learn</li><li>SQLite</li><li>FastAPI</li><li>React</li><li>pytest</li></ul></dd></div></dl>
     </div>
   </section>
   <div class="wrap">
@@ -73,10 +73,6 @@
       <section class="p-sec reveal">
         <h2><span lang="es">En cifras</span><span lang="en">In numbers</span></h2>
         <div><dl class="stats"><div><dt><span lang="es">distancia mínima al cierre</span><span lang="en">smallest gap to the close</span></dt><dd><span lang="es">+0,009</span><span lang="en">+0.009</span></dd></div><div><dt><span lang="es">partidos analizados</span><span lang="en">matches analysed</span></dt><dd><span lang="es">~22.000</span><span lang="en">~22,000</span></dd></div><div><dt><span lang="es">tests automáticos</span><span lang="en">automated tests</span></dt><dd>86</dd></div></dl></div>
-      </section>
-      <section class="p-sec reveal">
-        <h2>Stack</h2>
-        <div><ul class="stack" aria-label="Stack"><li>Python</li><li>pandas</li><li>NumPy</li><li>scikit-learn</li><li>SQLite</li><li>FastAPI</li><li>React</li><li>pytest</li></ul></div>
       </section>
       <section class="p-gallery" aria-label="Galería">
         <h2><span lang="es">Galería</span><span lang="en">Gallery</span></h2>

diff --git a/assets/site.css b/assets/site.css
@@ -143,6 +143,9 @@ footer a:hover{color:var(--link)}
 .p-links{display:flex;flex-wrap:wrap;gap:12px;margin-top:clamp(24px,3vw,32px)}
 .p-facts{display:grid;grid-template-columns:repeat(4,minmax(0,1fr));gap:20px 32px;margin-top:clamp(32px,5vw,52px);background:var(--surface);border-radius:18px;padding:clamp(20px,2.6vw,28px)}
 .p-facts dd{font-weight:600;line-height:1.4}
+.p-tech{grid-column:1/-1}
+.p-tech dt{margin-bottom:8px}
+.p-facts .stack li{background:#fff}
 @media (max-width:860px){.p-facts{grid-template-columns:repeat(2,minmax(0,1fr))}}
 @media (max-width:420px){.p-facts{grid-template-columns:1fr}}
 .p-sec{display:grid;grid-template-columns:minmax(0,4fr) minmax(0,8fr);gap:16px 48px;padding:clamp(40px,6vw,72px) 0 0}
@@ -153,9 +156,10 @@ footer a:hover{color:var(--link)}
 .points li{position:relative;padding-left:20px;color:var(--ink-2);line-height:1.6}
 .points li::before{content:"";position:absolute;left:0;top:.64em;width:7px;height:7px;border-radius:2px;background:var(--accent)}
 .stats{display:grid;grid-template-columns:repeat(3,minmax(0,1fr));gap:24px}
-.stats div{display:flex;flex-direction:column-reverse;gap:8px}
+.stats div{display:flex;flex-direction:column-reverse;justify-content:flex-end;gap:8px}
 .stats dd{font-family:var(--display);font-size:clamp(2.25rem,1.7rem + 2.2vw,3.5rem);line-height:1;font-variant-numeric:tabular-nums}
 .stats dt{font-size:.875rem;color:var(--muted);line-height:1.4}
+.stats-note{margin-top:24px;color:var(--ink-2);max-width:62ch}
 @media (max-width:520px){.stats{gap:14px}.stats dd{font-size:2rem}}
 .pull{margin:clamp(40px,6vw,72px) 0 0;padding:clamp(24px,3vw,36px);background:#fff3e2;border-radius:18px}
 .pull p{font-family:var(--display);font-size:clamp(1.375rem,1.15rem + 1vw,2rem);line-height:1.3;color:var(--ink);max-width:40ch}
@@ -187,6 +191,13 @@ footer a:hover{color:var(--link)}
 .phones{display:flex;justify-content:center;gap:clamp(14px,4vw,48px)}
 .phone{width:min(300px,44%);border-radius:28px;padding:7px;background:#fff;box-shadow:0 0 0 1px rgba(31,43,77,.1),0 24px 48px -28px rgba(31,43,77,.55)} /* taste-skill-ignore: phone screenshots */
 .phone img{border-radius:22px}
+.phones.n3 .phone{width:min(250px,31%)}
+.phone-gallery{display:grid;grid-template-columns:repeat(4,minmax(0,1fr));gap:clamp(24px,3vw,36px) clamp(14px,2.4vw,28px);align-items:start}
+.phone-gallery figure{margin:0}
+.phone-gallery .phone{width:100%;border-radius:22px;padding:5px}
+.phone-gallery .phone img{border-radius:17px}
+.phone-gallery figcaption{font-size:.875rem;color:var(--muted);margin-top:12px}
+@media (max-width:760px){.phone-gallery{grid-template-columns:repeat(2,minmax(0,1fr))}}
 @media (max-width:760px){.pair{grid-template-columns:1fr}}
 
 /* gráficos y tablas */
